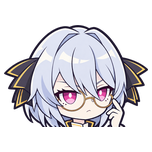
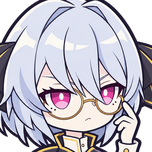
Polish Vivhite map art and character list portrait

diff --git a/mod_vivhite/Source/FollowerPatches.cs b/mod_vivhite/Source/FollowerPatches.cs
@@ -119,10 +119,17 @@ namespace Vivhite
                 art.BindDirection(___skeletonAnimation);
         }
 
-        private static void RegisterHeadSkin(Skeleton skeleton, ref string headSkin)
+        private static void RegisterHeadSkin(Skeleton skeleton, ref string headSkin, ref string handSkin, ref string legSkin)
         {
-            if (headSkin == "Head/" + VivhiteMod.HeadSkin)
-                headSkin = art.GetHeadSkin(skeleton);
+            if (headSkin != "Head/" + VivhiteMod.HeadSkin)
+                return;
+
+            headSkin = art.GetHeadSkin(skeleton);
+            // These native rig skins dress the empty slots. Equipment continues to supply its own skin.
+            if (handSkin == "Hand/Hand_00")
+                handSkin = "Hand/Hand_MaBuChanShou";
+            if (legSkin == "Leg/Leg_00")
+                legSkin = "Leg/Leg_LvZheChangXue";
         }
 
         private static bool Localize(LocalizationManager __instance, string key, ref string __result)

diff --git a/mod_vivhite/Source/FollowerArt.cs b/mod_vivhite/Source/FollowerArt.cs
@@ -193,8 +193,8 @@ namespace Vivhite
 
         private static RegionAttachment MakeHead(Slot slot, MeshAttachment template, Rect faceBounds, AtlasRegion region)
         {
-            // The stock hair extends to the feet. Fit the bob between its crown and the native jaw.
-            float bottom = faceBounds.yMin - faceBounds.height * 0.12f;
+            // Keep the compact bob above the native collar and align its crown to the stock rig.
+            float bottom = faceBounds.yMin + faceBounds.height * 0.08f;
             float height = MeshBounds(slot, template).yMax - bottom;
             float width = height * region.width / region.height;
             Bone bone = slot.Bone;

diff --git a/mod_vivhite/README.md b/mod_vivhite/README.md
@@ -4,12 +4,18 @@
 
 - 基础战斗属性沿用米娅的数据，装备加成由原版随从系统计算。
 - 招募时装备栏是空的。给白绮装备武器、防具或饰品，操作与原版装备栏一致。没有可用武器时，她会跟随但不会用默认武器攻击。
-- 白绮持有的弓、弩和枪使用无限弹药。法杖沿用原有的魔力消耗。
+- 白绮使用弓、弩、枪时无需准备弹药。使用暗夜法杖等施法武器时，攻击仍会扣白绮的魔力值。
 - 白绮存活并跟随时，主角受到致命伤害，她会牺牲自己，将剩余生命交给主角，回血受主角最大生命值限制。白绮通过原版随从复活流程恢复。
 
 ## 安装
 
-适用于《开拓物语》Windows Mono 2.2.0（Steam 构建 26889260）。把 `vivhite` 放到 `FrontierTale_Data/Mods`，在主菜单的「模组 → 本地模组」启用后重启游戏。保存过白绮的存档需要启用本模组加载角色及其装备。
+适用于《开拓物语》Windows Mono 2.2.0（Steam 构建 26889260）。把 `vivhite` 放到 `FrontierTale_Data/Mods`，在主菜单的「模组 → 本地模组」启用后重启游戏。更新时覆盖同一个目录并重启。旧存档可以直接继续。读档时如果出现模组差异页面，确认白绮已加载，然后点击「继续」进入领地。在顶部「角色」列表找到白绮，点击底部按钮，0 金币招募后再点击「跟随」。保存过白绮的存档需要启用本模组加载她及其装备。
+
+## 给白绮装备
+
+1. 让白绮成为「当前随从」。
+2. 打开顶部的「仓库」。在背包区点击主角装备页签旁边的随从装备按钮，切到她的八格装备栏。
+3. 把背包或仓库里的装备拖进对应的武器、衣服、鞋子、手套或饰品槽。取下时拖回背包。
 
 ## 构建
 
@@ -21,7 +27,7 @@ dotnet build mod_vivhite/Source/Vivhite.csproj -c Release '-p:GameDir=Z:/SteamLi
 
 ## 美术素材
 
-使用内置 imagegen，以白绮的角色参考图、Delta Live2D 和原版角色美术为参考生成对话立绘和正、背面地图头部贴图。头像和预览图从立绘裁切。地图角色沿用原版 Spine 骨骼和动作，装备后会使用对应的原版换装外观。所有运行时素材在 [`vivhite/`](vivhite/) 内。
+使用内置 imagegen，以白绮的角色参考图、Delta Live2D 和原版角色美术为参考生成对话立绘和正、背面地图头部贴图。头像按原版角色方格的近景比例从立绘裁切。地图贴图按实测的原版地图角色比例重画，并沿用原版 Spine 骨骼、动作和装备外观。空装备栏时显示斗篷、缠手和靴子作为外观。所有运行时素材在 [`vivhite/`](vivhite/) 内。
 
 <details>
 <summary>ImageGen 提示词</summary>
@@ -34,14 +40,14 @@ Use case: stylized-concept. Asset type: finished Frontier Tale custom follower d
 
 地图正面
 
-```
-Use case: stylized-concept. Asset type: isolated FACE-SIDE head sprite for the Frontier Tale shared Spine game rig. Create a game-ready isolated head cutout of Vivhite, the same character as image 3, a finalized dialogue portrait. Image 1 shows actual stock Frontier Tale game-rig head texture shapes and their strong clean flat-vector outlines and graphic shading: reference the graphic style only. Image 2 is the character design/live rig reference: preserve her recognizable icy-silver blue bob with a heavy angular central fringe and two big dark navy hair ribbons trimmed muted gold, vivid magenta eyes, warm brass round glasses. Match the same quiet mildly annoyed intelligent expression in image 3. Show only the compact rounded oversized chibi head from its crown down to the chin, directly facing toward the screen with very slight three-quarter asymmetry, essentially the same near-front view as image 2. All hair ends near the chin. Both ribbons fully visible and tucked behind the temples. Use a bold charcoal exterior outline, very limited 2 to 3 blocks of cold blue shadow, one creamy swoosh of hair highlight, clearly readable magenta eyes and circular glasses at 75 px in-game. No photographic textures, no gradients. No neck, no clothing, no hand, no shoulders, no torso, no props, no detached sprite pieces, no badge frame or text. Top, ribbons, and chin all uncut, leave an even clear margin around the single piece. Real transparent background and alpha.
-```
+~~~~
+Use case: stylized-concept. Asset type: the isolated FRONT HEAD texture of Vivhite for Frontier Tale's gameplay sprite. Reference 1 is actual front and back views of the game's other map characters; especially match the red-haired character's compact head silhouette, oval face, very thick dark exterior ink, simple two-tone hard block colors and sparse interior detail. Reference 2 is Vivhite's original Live2D identity. Reference 3 is her new dialogue portrait, for identity and colors only. Make an entirely new gameplay head, straight-on with crown fully visible, explicitly more compact than the dialogue art. Tiny stylized light-silver short tapered bob, wider near the cheeks and rounded jaw. Choppy fringe cut above the large pink eyes so they read as one unit. Simple small round muted bronze spectacles integrated over the pink eyes, nearly black arcing top lash, simple single iris highlight, pale warm cream face. Keep her two tiny black-gold ribbon knots tucked into the hair profile just above the ears, protruding on each side by at most 4 percent of total head width. Use simplified large shapes and recognizable angry-neutral face. At game scale the art should look like the Frontier Tale reference and be clear at 70 pixels high. Use a thick soft-cornered charcoal outer line, thick but clean brow and hair edge, limited mid-gray-lavender cel-shadow under bangs, pale ivory highlight. Hide no part of her face below the glasses; leave chin distinctly defined and enough room for one extremely small mouth if necessary. Only crown, hair, face, and little ribbons; no neck, no shoulders, hands, clothing, props, text, or outline glow. Center one head on a square canvas with generous transparent margins, true alpha background. The cropped head silhouette should be close to round, around 1.1 width to 1 height.
+~~~~
 
 地图背面
 
-```
-Use case: stylized-concept. Asset type: isolated BACK-SIDE head sprite for the Frontier Tale shared Spine game rig. This sheet must pair exactly with reference image 1, the approved Vivhite front head. Imagine rotating that head a full 180 degrees to show the back of the exact same head; it is viewed straight from behind with crown up. Match the same proportions, outer outline, overall width:height and hair length, enough to replace the face-side game sprite on turn. Keep both gold-trimmed black/navy ribbons at the same temple height and size, and the icy silver blue compact angular bob. Show the hair seen from the back with the part at crown, tapered layers, a bottom full mass of hair, and strong clean dark charcoal contour. Only the back of the head is visible, with no sliver of face, no eyes, no glasses, no skin, no ears. Match asset style: striking deep charcoal outlines, graphic cel color blocks and a pale icy blue-white highlight. No neck, torso, collar, props, lettering, decorative background, or drop shadow. Use truly transparent background. Only one single head silhouette, with the crown and both ribbons entirely within canvas and an even clear margin; overall aligned centered exactly like the front view.
-```
+~~~~
+Use case: stylized-concept. Asset type: the isolated BACK HEAD texture for the same gameplay sprite. The first reference is the finalized new FRONT sprite of Vivhite; redraw that exact sprite from the rear, rotated 180 degrees around a vertical axis. The second reference shows the rear texture line and shape treatment of the existing Frontier Tale game actors. Need the same squat compact helmet-like icy silver bob, the same crown notch, the same exact overall dimensions and silhouette, including two small black cloth knots with gold edges attached flush to her hair. No face, skin, ears, neck, clothing or hands; only the silhouette of the back of hair and ribbons. Use the same very thick simplified charcoal contour, main pale cream-silver hair area, cold lavender tidy tapering bottom shadows, a short broad highlight broken by a couple of tufts, a small number of thick interior lines. Crop frame centered with ample transparent border and true alpha. No shadows outside the shape, no extras, no labels. Should pair seamlessly with the front asset when a game sprite turns.
+~~~~
 
 </details>
